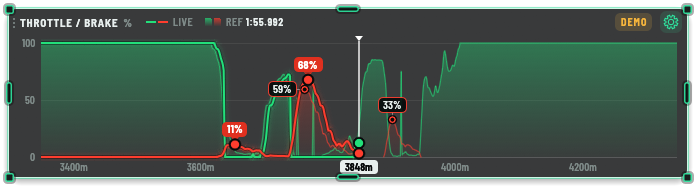
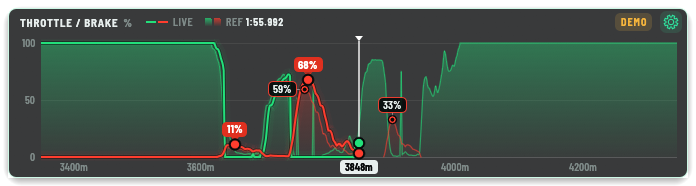
Draw with fewer vertices; accept byte-order marks in settings files
- Thin the reference fills to one pixel column, like the live lines.
- Two glow strokes instead of four per live line.
  Graph tessellation per frame: 0.84 -> 0.54 ms (500/500 m), 1.89 -> 0.85 ms (1500/500 m).
- settings.json / library.json saved with a UTF-8 BOM (Notepad, PowerShell 5) no
  longer fall back to defaults; unreadable settings are logged.

diff --git a/src/ui/graph.rs b/src/ui/graph.rs
@@ -69,8 +69,9 @@ const FLOOR: f32 = 0.004;
 /// Extra window drawn past each side (fraction of the span) so lines run off the edges.
 const OVERSCAN: f64 = 0.02;
 /// The canvas' 6 px shadow blur (series colour @ 55%) under a live line, approximated
-/// by nested faint strokes: (width, alpha of the series colour).
-const GLOW: [(f32, f32); 4] = [(14.0, 0.015), (10.0, 0.025), (8.0, 0.03), (5.0, 0.055)];
+/// by two faint strokes (width, alpha of the series colour); each stroke is a full
+/// tessellation of the line, so this is kept short.
+const GLOW: [(f32, f32); 2] = [(12.0, 0.035), (6.0, 0.06)];
 /// egui centres a text's whole row box, which puts Barlow a point below where the
 /// canvas' `middle` baseline (used for all the prototype's text) puts it.
 const MIDDLE_BASELINE: Vec2 = vec2(0.0, -1.0);
@@ -207,25 +208,32 @@ impl<'a> View<'a> {
     }
 
     /// A reference series as a vertical-gradient area plus an edge line that lifts off
-    /// along zero stretches, so the baseline stays clean.
+    /// along zero stretches, so the baseline stays clean. Thinned to one physical pixel
+    /// per column first, like the live lines: a lap has more samples than the plot has
+    /// pixels.
     fn paint_area(&self, painter: &Painter, samples: &[(f64, usize)], values: &[f32], color: Color32, opacity: f32) {
-        if samples.len() < 2 {
+        let mut thin = Decimator::new(1.0 / self.painter.pixels_per_point());
+        for &(v, i) in samples {
+            thin.push(pos2(self.scale.x(v), self.scale.y(pedal(values[i]))));
+        }
+        let points = thin.finish();
+        if points.len() < 2 {
             return;
         }
         let top = theme::alpha(color, 0.36 * opacity);
         let bottom = theme::alpha(color, 0.02 * opacity);
         let edge = Stroke::new(1.25, theme::alpha(color, 0.6 * opacity));
         let base = self.plot.bottom();
-        let lifted = |j: Option<usize>| j.and_then(|j| samples.get(j)).is_some_and(|&(_, i)| values[i] > FLOOR);
+        let value_at = |p: Pos2| ((base - p.y) / self.plot.height()).clamp(0.0, 1.0);
+        let lifted = |j: Option<usize>| j.and_then(|j| points.get(j)).is_some_and(|&p| value_at(p) > FLOOR);
 
         let mut mesh = Mesh::default();
-        mesh.reserve_vertices(2 * samples.len());
-        mesh.reserve_triangles(2 * (samples.len() - 1));
+        mesh.reserve_vertices(2 * points.len());
+        mesh.reserve_triangles(2 * (points.len() - 1));
         let mut edges = Vec::new();
         let mut run = Vec::new();
-        for (j, &(v, i)) in samples.iter().enumerate() {
-            let value = pedal(values[i]);
-            let p = pos2(self.scale.x(v), self.scale.y(value));
+        for (j, &p) in points.iter().enumerate() {
+            let value = value_at(p);
             // Colour by height: the gradient runs from the plot top to the baseline.
             let n = mesh.vertices.len() as u32;
             mesh.colored_vertex(p, bottom.lerp_to_gamma(top, value));

diff --git a/src/settings.rs b/src/settings.rs
@@ -117,11 +117,16 @@ impl Default for Settings {
 impl Settings {
     /// Reads settings, falling back to defaults for a missing or unreadable file.
     pub fn load(path: &Path) -> Self {
-        std::fs::read_to_string(path)
-            .ok()
-            .and_then(|s| serde_json::from_str::<Settings>(&s).ok())
-            .unwrap_or_default()
-            .sanitized()
+        let Ok(text) = std::fs::read_to_string(path) else { return Settings::default() };
+        // Notepad and PowerShell 5 save UTF-8 with a byte-order mark.
+        let text = text.strip_prefix('\u{feff}').unwrap_or(&text);
+        match serde_json::from_str::<Settings>(text) {
+            Ok(settings) => settings.sanitized(),
+            Err(e) => {
+                log::warn!("{} couldn't be read ({e}); using the default settings", path.display());
+                Settings::default()
+            }
+        }
     }
 
     pub fn save(&self, path: &Path) -> io::Result<()> {
@@ -210,6 +215,8 @@ mod tests {
     fn garbage_falls_back_to_defaults() {
         let dir = tempfile::tempdir().unwrap();
         let path = dir.path().join("settings.json");
+        std::fs::write(&path, "\u{feff}{\"bg_opacity\": 35}").unwrap();
+        assert_eq!(Settings::load(&path).bg_opacity, 35.0, "a byte-order mark is fine");
         std::fs::write(&path, "{not json").unwrap();
         assert_eq!(Settings::load(&path), Settings::default());
         assert_eq!(Settings::load(&dir.path().join("missing.json")), Settings::default());

diff --git a/src/library.rs b/src/library.rs
@@ -213,6 +213,7 @@ impl Library {
             laps: Vec<Value>,
             active: Value,
         }
+        let bytes = bytes.strip_prefix(b"\xef\xbb\xbf").unwrap_or(bytes); // UTF-8 byte-order mark
         let stored: Stored = serde_json::from_slice(bytes)?;
         let total = stored.laps.len();
         let mut library = Library::default();
